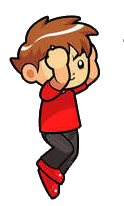
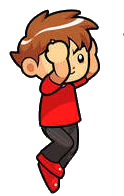
ajustes sons e posição do personagem

Changed region(s): [[0.0726, 0.0306, 0.8226, 0.5816], [0.2903, 0.6122, 0.6532, 1.0], [0.9919, 0.1531, 1.0, 0.2143]]

diff --git a/internal/engine/game.py b/internal/engine/game.py
@@ -176,6 +176,9 @@ class Game:
         self.hold_active = False
         self.hold_type = None  # "level_end" ou "game_over"
         self.hold_frames_left = 0
+        self.hold_total_frames = 0
+        # Controle de ducking de música durante holds com som
+        self._music_duck_original_volume = None
         self._next_level_after_hold = False
         self._pending_state_after_hold = None
 
@@ -417,6 +420,7 @@ class Game:
         self.hold_active = True
         self.hold_type = hold_type
         self.hold_frames_left = frames
+        self.hold_total_frames = frames
         self._pending_state_after_hold = pending_state
         self._next_level_after_hold = next_level
 
@@ -431,6 +435,20 @@ class Game:
         self.sound_effects.play_sound_effect("level-end")
         # Apenas inicia esmaecimento; avanço de fase/estado acontece imediatamente
         self._start_hold("level_end", frames, pending_state=None, next_level=False)
+        # Aplicar ducking na música para destacar o som de fim de fase
+        self._apply_hold_ducking()
+
+    def _apply_hold_ducking(self):
+        """Reduz temporariamente o volume da música durante o hold."""
+        try:
+            # Guardar volume atual apenas na primeira aplicação
+            if self._music_duck_original_volume is None:
+                self._music_duck_original_volume = pygame.mixer.music.get_volume()
+            # Reduzir volume para destacar efeitos sonoros
+            ducked = max(0.0, self._music_duck_original_volume * 0.5)
+            pygame.mixer.music.set_volume(ducked)
+        except Exception:
+            pass
 
     def _process_cheat_token(self, token):
         if not token:
@@ -1237,8 +1255,32 @@ class Game:
             else:
                 # fim do hold
                 self.hold_active = False
+                # Restaurar volume da música se foi reduzido
+                try:
+                    if self._music_duck_original_volume is not None:
+                        pygame.mixer.music.set_volume(self._music_duck_original_volume)
+                        self._music_duck_original_volume = None
+                except Exception:
+                    pass
                 if self.hold_type == "level_end":
-                    # Para fim de fase, não bloqueamos; já avançamos imediatamente
+                    # Agora avançamos de fase somente após o hold terminar
+                    try:
+                        if getattr(self, "_next_level_after_hold", False):
+                            if self.current_level < self.max_levels:
+                                self.current_level += 1
+                                Level.init_level(self)
+                                # Tocar música do novo nível
+                                self.music.play_level_music(self, self.current_level)
+                            else:
+                                # Vitória - verificar se entra no ranking
+                                if self.ranking_manager.is_high_score(self.score):
+                                    self.state = GameState.ENTER_NAME
+                                else:
+                                    self.state = GameState.VICTORY
+                    except Exception:
+                        pass
+                    finally:
+                        self._next_level_after_hold = False
                     self.hold_type = None
                 elif self.hold_type == "game_over":
                     # Para game over, não bloqueamos atualização; apenas removemos o esmaecimento
@@ -1319,6 +1361,9 @@ class Game:
                 self.credits_reset_timer = 0
 
         elif self.state == GameState.PLAYING:
+            # Congelar toda a jogabilidade durante holds de transição (fim de fase / game over)
+            if getattr(self, "hold_active", False) and self.hold_type in ("level_end", "game_over"):
+                return
             # Atualizar jogador
             player_action = self.player.update(
                 self.platforms,
@@ -2277,20 +2322,12 @@ class Game:
 
             # Verificar se tocou a bandeira
             if self.flag and self.player.rect.colliderect(self.flag.rect):
-                # Iniciar hold de fim de fase com som e esmaecimento
-                self.start_level_end_hold(self.current_level >= self.max_levels)
-                # Avança imediatamente conforme lógica original
-                if self.current_level < self.max_levels:
-                    self.current_level += 1
-                    Level.init_level(self)
-                    # Tocar música do novo nível
-                    self.music.play_level_music(self, self.current_level)
-                else:
-                    # Vitória - verificar se entra no ranking
-                    if self.ranking_manager.is_high_score(self.score):
-                        self.state = GameState.ENTER_NAME
-                    else:
-                        self.state = GameState.VICTORY
+                # Evitar retrigger do hold enquanto permanece colidindo
+                if not getattr(self, "hold_active", False):
+                    # Iniciar hold de fim de fase com som e esmaecimento
+                    self.start_level_end_hold(self.current_level >= self.max_levels)
+                    # Agendar avanço de fase apenas após o hold terminar
+                    self._next_level_after_hold = True
 
             # Verificar se entrou na área de abdução da nave (fase 50)
             if self.spaceship and self.player.rect.colliderect(
@@ -2301,20 +2338,12 @@ class Game:
 
                 # Após 10 segundos (600 frames) de abdução, terminar a fase
                 if self.player.abduction_timer >= 600:
-                    # Iniciar hold de fim de fase ao concluir abdução
-                    self.start_level_end_hold(self.current_level >= self.max_levels)
-                    # Avança imediatamente conforme lógica original
-                    if self.current_level < self.max_levels:
-                        self.current_level += 1
-                        Level.init_level(self)
-                        # Tocar música do novo nível
-                        self.music.play_level_music(self, self.current_level)
-                    else:
-                        # Vitória - verificar se entra no ranking
-                        if self.ranking_manager.is_high_score(self.score):
-                            self.state = GameState.ENTER_NAME
-                        else:
-                            self.state = GameState.VICTORY
+                    # Evitar retrigger do hold enquanto condição permanece verdadeira
+                    if not getattr(self, "hold_active", False):
+                        # Iniciar hold de fim de fase ao concluir abdução
+                        self.start_level_end_hold(self.current_level >= self.max_levels)
+                        # Agendar avanço de fase apenas após o hold terminar
+                        self._next_level_after_hold = True
 
     def draw(self):
 
@@ -3280,12 +3309,18 @@ class Game:
             )
             self.screen.blit(instruction_text, instruction_rect)
 
-        # Overlay de esmaecimento leve durante hold
+        # Overlay de esmaecimento durante hold (fade progressivo)
         if getattr(self, "hold_active", False):
             try:
                 overlay = pygame.Surface((WIDTH, HEIGHT))
                 overlay.fill(BLACK)
-                overlay.set_alpha(int(255 * 0.05))  # ~5%
+                # Progresso do fade baseado na duração do hold
+                total = max(1, getattr(self, "hold_total_frames", 1))
+                elapsed = total - max(0, self.hold_frames_left)
+                progress = min(1.0, max(0.0, elapsed / float(total)))
+                # Para fim de fase, usar um fade mais perceptível (~60%)
+                target_alpha = 0.6 if self.hold_type == "level_end" else 0.4
+                overlay.set_alpha(int(255 * target_alpha * progress))
                 self.screen.blit(overlay, (0, 0))
             except Exception:
                 pass
